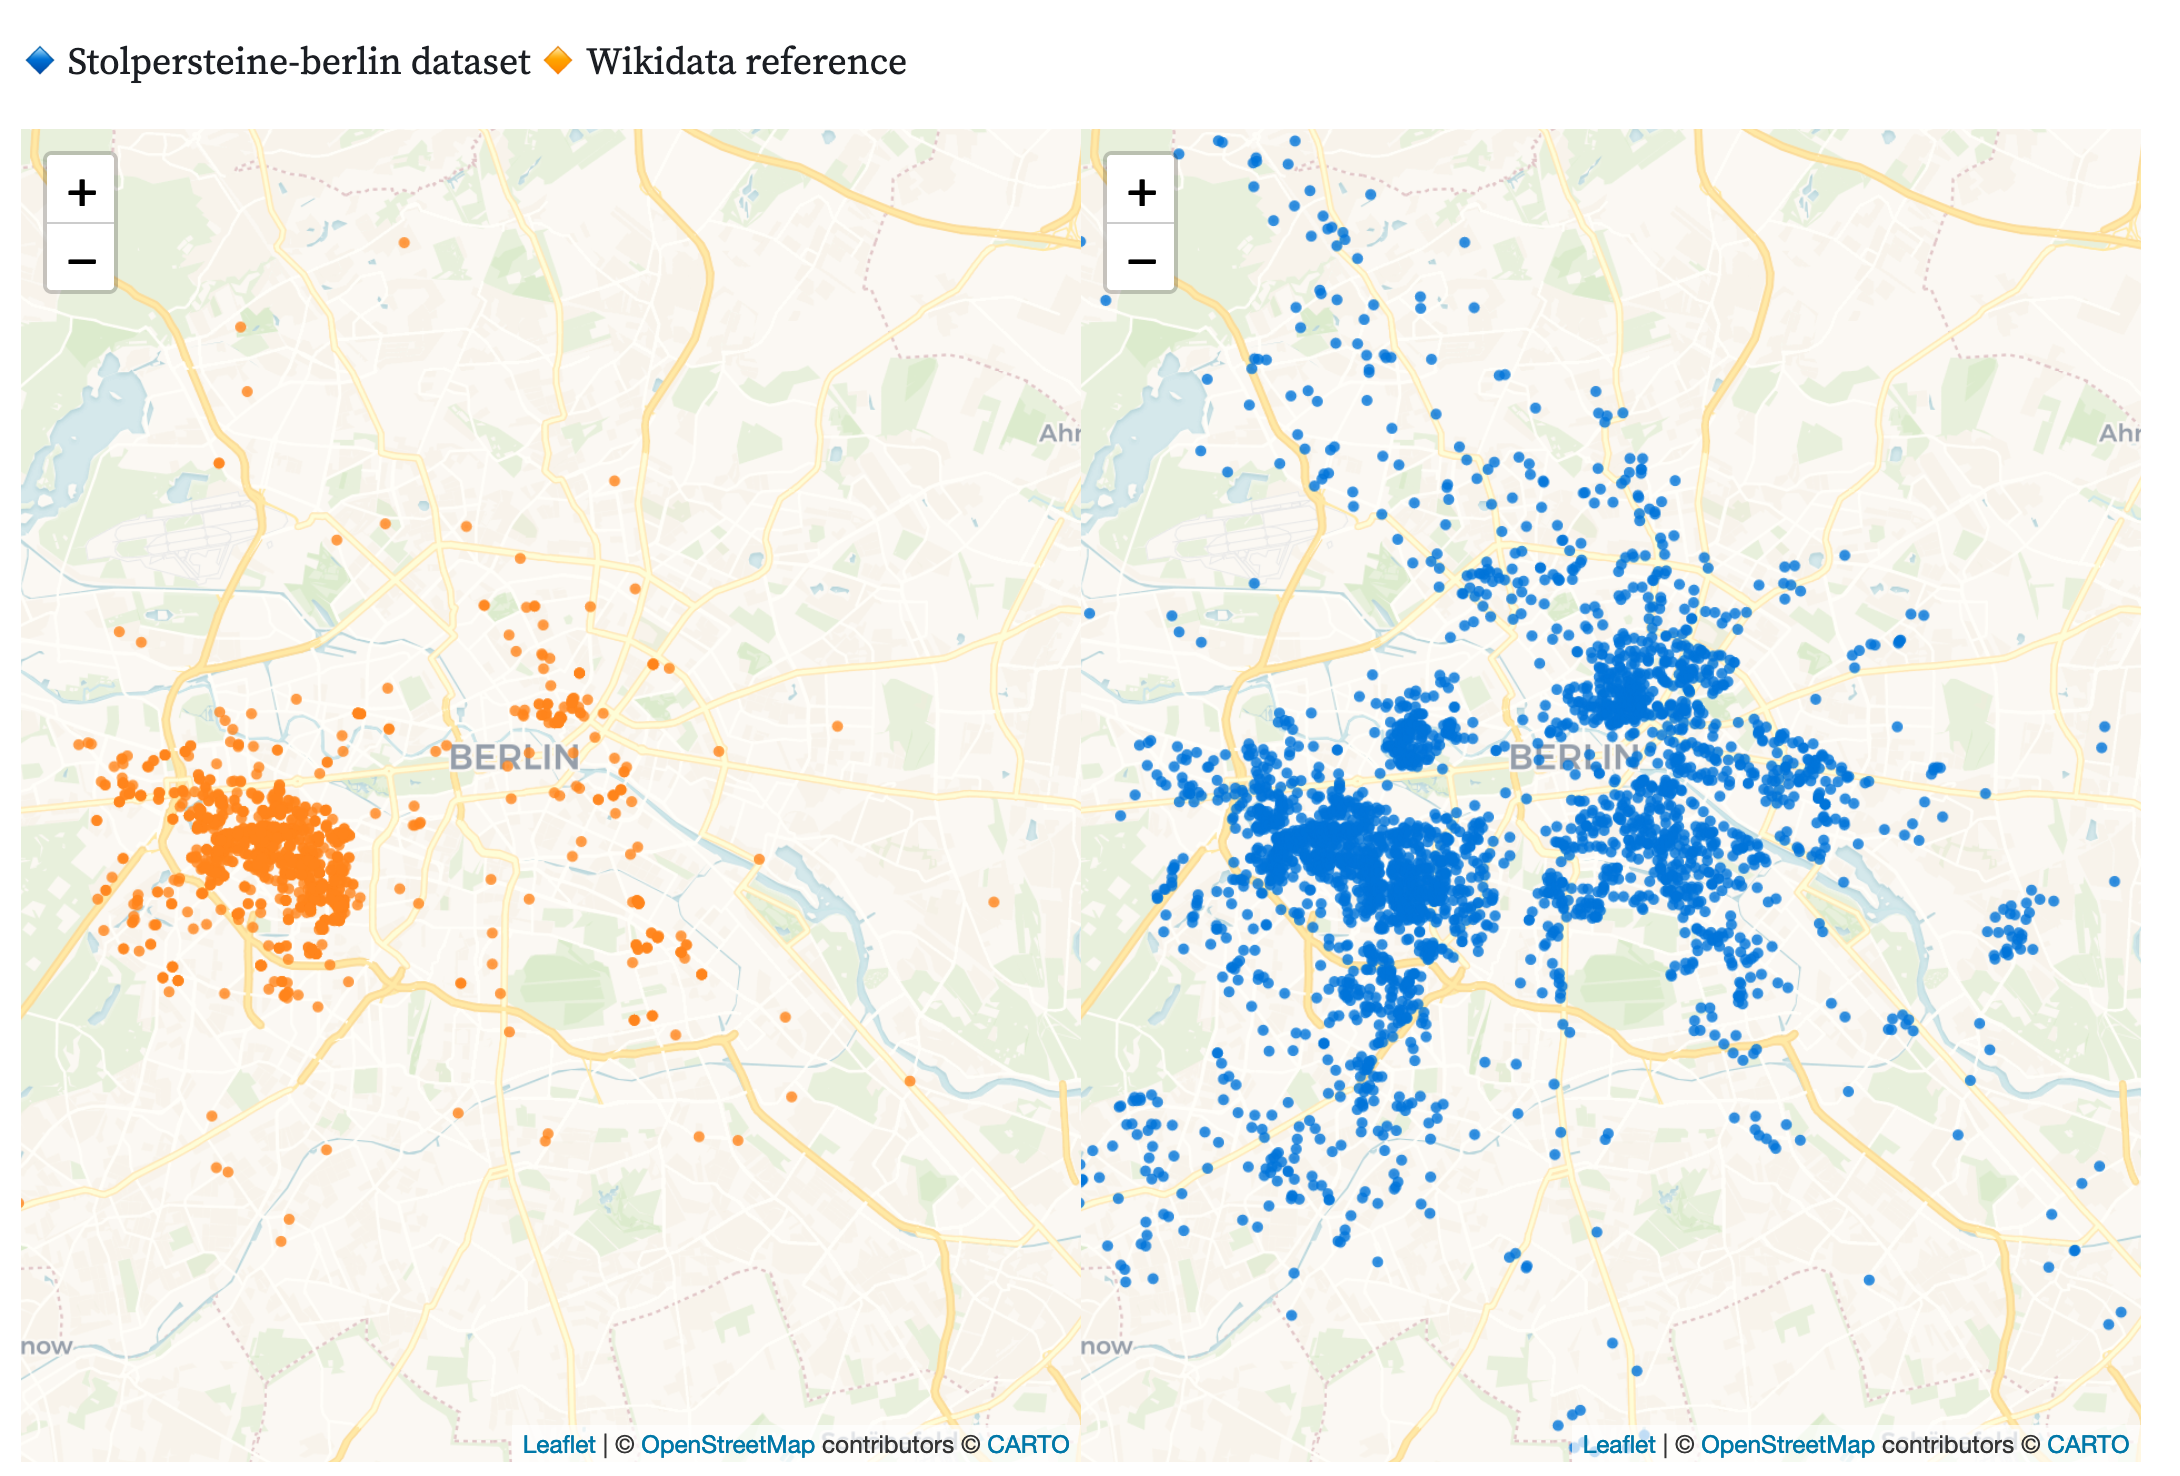
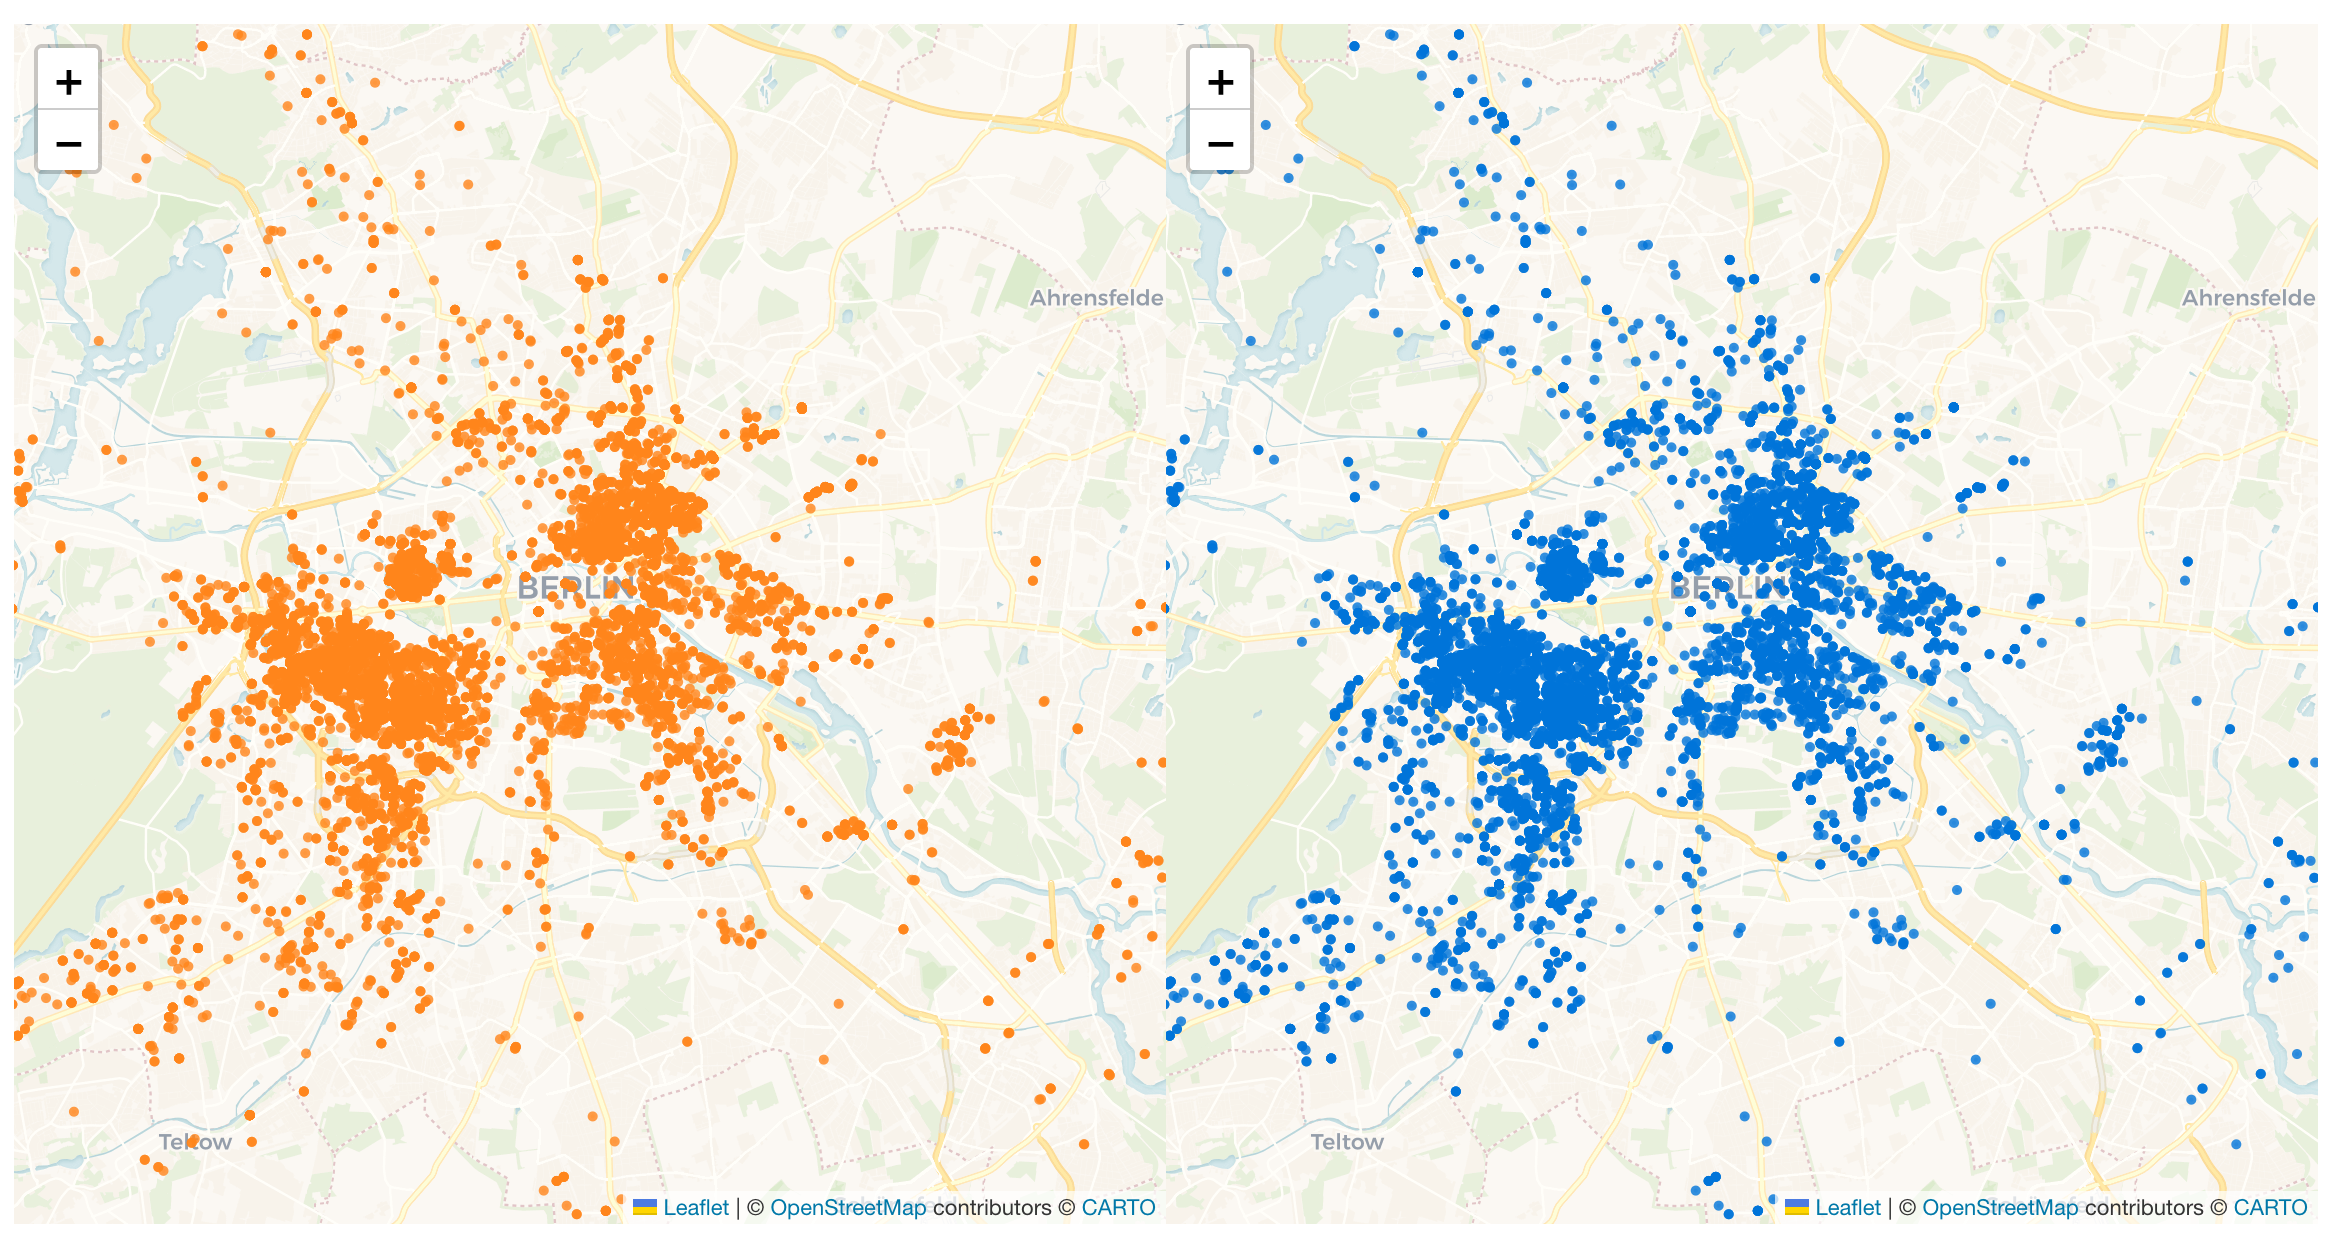
Update to Berlin maps

diff --git a/content/blog/stolpersteine-maps.md b/content/blog/stolpersteine-maps.md
@@ -1,12 +1,17 @@
 ---
 date: "2020-11-13T00:00:00Z"
-description: ""
-image: ""
-tags: [observable, viz]
-title: Comparing Berlin memorial street plaques datasets
+updated: "2025-12-18T00:00:00Z"
+description: "Comparing Stolpersteine memorial datasets: Wikidata vs stolpersteine-berlin.de. Updated 2025 analysis with 10,000+ Berlin records and interactive maps."
+image: "assets/stolpersteine-maps.png"
+tags: [observable, viz, berlin, stolpersteine, open-data, holocaust-memorial]
+title: "Berlin Stolpersteine Data: Comparing Memorial Databases"
 ---
 
-Here are two quite different datasets, which supposedly represent the same thing. Hard to miss how different is the extent of their geographical coverage.
+> **December 2025 Update:** I've refreshed the data for this analysis. The landscape has changed dramatically—Wikidata's coverage has improved so much that it now *exceeds* the Berlin-specific database. See updated numbers below.
+
+---
+
+Here are two datasets documenting Berlin's Stolpersteine memorial plaques. In 2020, their coverage differed dramatically. Four years later, Wikidata has caught up—and surpassed—the Berlin-specific database.
 
    🔸 Wikidata reference 🔹 Stolpersteine-berlin dataset
 [![maps of Stolpersteine](assets/stolpersteine-maps.png)](https://observablehq.com/@basilesimon/berlin-stolpersteine)
@@ -18,31 +23,55 @@ Here are two quite different datasets, which supposedly represent the same thing
 ## Background
 In the night of Nov 9 to 10, 1938, Nazi Germany's SA forces carried out a devastating pogrom. The event came to be called [_Kristallnacht_, "The Night of Broken Glass."](https://en.wikipedia.org/wiki/Kristallnacht)
 
-Last week, as I walked in the street in the evening I noticed that some of the brass plques had candles and roses next to them, a silent and unattended vigil in the street. It was in remeberance of Kristallnacht. The picture below is mine:
+Last week, as I walked in the street in the evening I noticed that some of the brass plaques had candles and roses next to them, a silent and unattended vigil in the street. It was in remembrance of Kristallnacht. The picture below is mine:
 
-![picture of a Stolperstein in the street](assets/stolpersteine.jpg)
+![A Stolperstein memorial plaque in a Berlin street, with candles placed beside it](assets/stolpersteine.jpg)
 
-These plaques are Stolpersteine:
+These plaques are Stolpersteine—the world's largest decentralized memorial, with over 100,000 brass-topped concrete cubes installed across Europe by artist Gunter Demnig:
 
-> "A Stolperstein (pronounced [ˈʃtɔlpɐˌʃtaɪn]; literally "stumbling stone", metaphorically a "stumbling block") is a sett-size, ten-centimetre (3.9 in) concrete cube bearing a brass plate inscribed with the name and life dates of victims of Nazi extermination or persecution." 
+> "A Stolperstein (pronounced [ˈʃtɔlpɐˌʃtaɪn]; literally "stumbling stone", metaphorically a "stumbling block") is a sett-size, ten-centimetre (3.9 in) concrete cube bearing a brass plate inscribed with the name and life dates of victims of Nazi extermination or persecution."
 
-> "Today, Stolpersteine are being realized for Jews, Sinti and Roma, people from the political or religious resistance, victims of the "euthanasia" murders, homosexuals, Jehovahs Witnesses and for people who were persecuted for being declared to be "asocial"."   
+> "Today, Stolpersteine are being realized for Jews, Sinti and Roma, people from the political or religious resistance, victims of the "euthanasia" murders, homosexuals, Jehovahs Witnesses and for people who were persecuted for being declared to be "asocial"."
 
-> "(It is a) project created by Gunter Demnig for honoring victims of National Socialism"
 [(Wikipedia)](https://en.wikipedia.org/wiki/Stolperstein)
 
 ---
 
-## So why is the data so different?
+## The Data: 2020 vs 2025
+
 These are two public records of the location and number of Berlin's Stolpersteine:
 
-* the [Wikidata database](https://www.wikidata.org/wiki/Q314003),
-* and another database referenced in the [daten.berlin.de](daten.berlin.de) catalogue, is the dataset produced by [stolpersteine-berlin.de](https://stolpersteine-berlin.de) – which describes itself as "(a) liaison office between the artist Gunter Demnig together with his team and the local Stolperstein-groups."
+* the [Wikidata database](https://www.wikidata.org/wiki/Q26703203),
+* and the dataset produced by [stolpersteine-berlin.de](https://www.stolpersteine-berlin.de/en), referenced in the [daten.berlin.de](https://daten.berlin.de/datensaetze/liste-der-stolpersteine-berlin) catalogue. It describes itself as "a liaison office between the artist Gunter Demnig together with his team and the local Stolperstein-groups."
 
-There are only about **1,780 Wikidata records** in Berlin, and they're overwhelmingly in the west of the city. Stolpersteine-berlin, on the other hand, has **3,307 records**, many of them including several family members.
+| Source | 2020 Records | 2025 Records | Change |
+|--------|--------------|--------------|--------|
+| [stolpersteine-berlin.de](https://www.stolpersteine-berlin.de/en) | 3,307 | **10,341** | +213% |
+| [Wikidata](https://www.wikidata.org/wiki/Q26703203) (Berlin) | ~1,780 | **11,992** | +574% |
+| Wikidata (all Europe) | ~14,000 | **47,320** | +238% |
 
-The Wikidata dataset has however the merit of spanning not only all of Germany, but also all of Europe:
+In 2020, there were only about **1,780 Wikidata records** in Berlin, overwhelmingly in the west of the city. Stolpersteine-berlin had **3,307 records**, many including several family members at the same address.
+
+By 2025, the situation has reversed. Wikidata now has **more Berlin records** than the Berlin-specific database, thanks to community contributors adding nearly 35,000 geocoded entries across Europe.
+
+The Wikidata dataset spans not only all of Germany, but all of Europe:
 <iframe width="100%" height="584" frameborder="0"
   src="https://observablehq.com/embed/@basilesimon/berlin-stolpersteine?cell=viz"></iframe>
 
-Could the second dataset, good enough to be referenced by the Berlin open data initiative, be added to the Wikidata records, I wonder?
+## Technical Notes
+
+The stolpersteine-berlin.de site now provides a [JSON API](https://www.stolpersteine-berlin.de/en/api/json/stolpersteine.json) with pre-geocoded coordinates. The old XML endpoint I used in 2020 no longer exists.
+
+For Wikidata, a SPARQL query retrieves all Stolpersteine with coordinates:
+
+```sparql
+SELECT ?item ?itemLabel ?coords WHERE {
+  ?item wdt:P31 wd:Q26703203 .
+  OPTIONAL { ?item wdt:P625 ?coords }
+  SERVICE wikibase:label { bd:serviceParam wikibase:language "en" }
+}
+```
+
+---
+
+*Originally published November 2020. Updated December 2025 with fresh data.*
